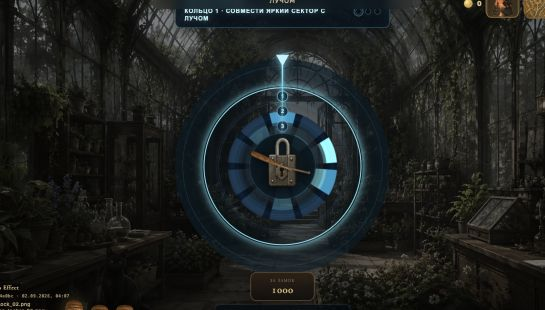
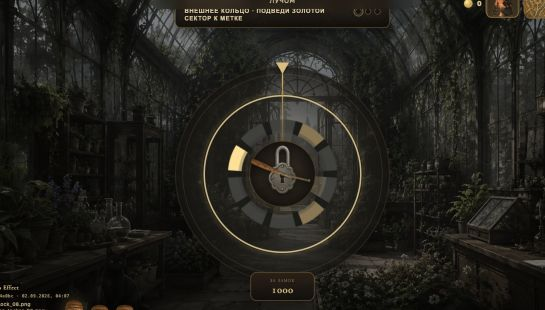
Restyle Mass Effect rings for Keynlock

diff --git a/css/modes-02-mass-effect.css b/css/modes-02-mass-effect.css
@@ -5,3 +5,15 @@
 .massCenter{position:absolute;left:50%;top:50%;width:132px;height:132px;transform:translate(-50%,-50%);border:1px solid rgba(100,219,240,.25);border-radius:50%;background:radial-gradient(circle,rgba(8,25,34,.82),rgba(3,10,15,.94));box-shadow:0 0 0 8px rgba(22,75,89,.18),inset 0 0 28px rgba(54,190,218,.12);color:#d9f9ff;cursor:pointer;z-index:6}.massCenter.ready{border-color:#72f4c8;box-shadow:0 0 0 8px rgba(49,185,143,.16),0 0 30px rgba(91,239,188,.44);animation:massReadyPulse 1.2s ease-in-out infinite alternate}.massCenterLock{position:absolute;left:50%;top:50%;width:136px;height:142px;transform:translate(-50%,-50%) scale(.58);transform-origin:center;z-index:2;pointer-events:none;filter:drop-shadow(0 7px 10px rgba(0,0,0,.5))}.massCenterShackle{position:absolute;left:50%;top:-28px;width:112px;height:112px;transform:translateX(-50%);background:var(--locker-image) center/contain no-repeat}.massCenterBody{position:absolute;left:50%;top:30px;width:136px;height:110px;transform:translateX(-50%);background:var(--lock-body-image) center/contain no-repeat}.massCenterPick{position:absolute;left:50%;top:50%;width:1px;height:1px;z-index:4;transform:rotate(-66deg);transform-origin:center}.massCenterPick::before{content:"";position:absolute;left:-11px;bottom:-38px;width:22px;height:158px;background:var(--pick-skin-image) center bottom/contain no-repeat;transform:scaleY(-1);filter:drop-shadow(0 2px 4px rgba(0,0,0,.48))}.massCenterTension{position:absolute;left:50%;top:50%;width:1px;height:1px;z-index:3}.massCenterTension::before{content:"";position:absolute;left:-5px;top:-12px;width:104px;height:26px;background:var(--tension-skin-image) center/contain no-repeat;transform-origin:6% 50%;transform:rotate(13.5deg);filter:drop-shadow(0 2px 4px rgba(0,0,0,.48))}.massCenterLock.opening .massCenterShackle{animation:keynlockShackleOpenFast 950ms cubic-bezier(.20,.76,.18,1) forwards!important}.massCenterLock.opened .massCenterShackle{transform:translateX(-50%) translateY(-40%) rotate(-14deg)}
 .massControlsHint{position:relative;z-index:8;transform:translateY(-58px);padding:8px 14px;border:1px solid rgba(70,141,158,.34);border-radius:9px;background:rgba(4,13,19,.72);color:#7698a2;font:10px/1 Arial,sans-serif;letter-spacing:.05em}.massControlsHint b{color:#bff6ff;font-size:12px}.massControlsHint span{display:inline-block;width:1px;height:12px;margin:0 11px;vertical-align:middle;background:#35535d}@keyframes massReadyPulse{to{filter:brightness(1.14)}}
 @media (max-height:720px),(max-width:760px){.massBoardViewport{width:520px;height:560px;gap:7px}.massBoard{transform:scale(.82)}.massReadout{width:430px}}
+
+/* Mass Effect borrows the ring idea, but it belongs to Keynlock's worn,
+   mechanical world. Selection is carried by the annulus itself: the ring
+   being rotated stays fully lit while both inactive rings recede. */
+.massReadout{border-color:rgba(166,128,70,.62);background:linear-gradient(180deg,rgba(48,38,27,.96),rgba(20,16,12,.94));box-shadow:inset 0 0 0 1px rgba(225,190,126,.08),inset 0 0 24px rgba(0,0,0,.34),0 10px 28px rgba(0,0,0,.45)}
+.massReadoutKicker{color:#8f7650}.massReadout strong{color:#e3cca1;text-shadow:0 1px 2px #000}.massProgress i{border-color:#776344;background:#211a12}.massProgress i.selected{outline-color:rgba(218,178,104,.46)}.massProgress i.ready{border-color:#d6b369;background:#b7863e;box-shadow:0 0 8px rgba(204,158,75,.42)}
+.massBoard{background:radial-gradient(circle at 50% 45%,rgba(73,65,53,.24) 0 27%,rgba(29,27,23,.82) 64%,rgba(12,11,9,.94) 100%);box-shadow:0 24px 55px rgba(0,0,0,.56),inset 0 0 0 2px rgba(137,111,71,.2),inset 0 0 55px rgba(0,0,0,.42)}.massBoard::before{border-color:rgba(164,132,79,.3)}.massBoard::after{border-color:#d7b574;background:#e1c385;box-shadow:0 0 8px rgba(215,181,116,.55)}
+.massTargetBeam{width:2px;background:linear-gradient(#f1d391 0,#c99a4d 18%,rgba(169,124,58,.42) 68%,transparent 100%);box-shadow:0 0 5px rgba(217,172,89,.55)}.massPointer{border-top-color:#dfbd78;filter:drop-shadow(0 2px 3px rgba(0,0,0,.75))}
+.massRing{opacity:.28;filter:grayscale(.28);transition:opacity .22s ease,filter .22s ease,transform .2s ease}.massRing.selected{opacity:1;filter:none}.massRing.ready:not(.selected){opacity:.52;filter:sepia(.22)}
+.massRing::before{opacity:.08;box-shadow:inset 0 0 0 1px rgba(145,122,84,.35)}.massRing.selected::before{opacity:1;box-shadow:inset 0 0 0 3px var(--mass-ring-color),0 0 10px rgba(197,158,91,.38)}.massRing.ready::before{box-shadow:inset 0 0 0 2px #b9914f,0 0 9px rgba(185,145,75,.32)}
+.massRingDisc{opacity:1;filter:brightness(.82) saturate(.72) drop-shadow(0 6px 12px rgba(0,0,0,.42))}.massRing.selected .massRingDisc{opacity:1;filter:brightness(1.18) saturate(.92) drop-shadow(0 4px 10px rgba(0,0,0,.45))}.massRing.ready .massRingDisc{opacity:.72;filter:sepia(.22) brightness(.94) saturate(.72)}
+.massCenter{border-color:rgba(171,137,82,.38);background:radial-gradient(circle,rgba(55,45,32,.86),rgba(17,14,11,.96));box-shadow:0 0 0 8px rgba(90,69,39,.18),inset 0 0 28px rgba(0,0,0,.36)}.massCenter.ready{border-color:#d1ad67;box-shadow:0 0 0 8px rgba(151,111,52,.16),0 0 22px rgba(205,158,77,.34)}

diff --git a/js/modes/mass-effect.js b/js/modes/mass-effect.js
@@ -3,10 +3,10 @@
   let meRings=[], meSelected=0, meInitialPositions=[];
   function massGradientForRing(ring){
     const step = 360 / ring.count;
-    const goodColor = '#74f1ff';
-    const decoyColor = '#317f9c';
-    const baseColor = '#172c3b';
-    const darkGap = '#07131c';
+    const goodColor = '#e4bd70';
+    const decoyColor = '#796340';
+    const baseColor = '#363633';
+    const darkGap = '#171714';
     const gap = Math.max(2.2, step * .11);
     const parts = [];
 
@@ -44,7 +44,7 @@
       btn.style.setProperty('--mass-marker-width', `${Math.max(14, Math.round(ring.thickness * .34))}px`);
       btn.style.setProperty('--mass-marker-height', `${Math.max(10, Math.round(ring.thickness * .24))}px`);
       btn.style.setProperty('--mass-marker-bottom', `${Math.max(8, Math.round(ring.thickness * .18))}px`);
-      btn.style.setProperty('--mass-ring-color', ['#7cecff','#5db9ff','#8d8cff'][i] || '#7cecff');
+      btn.style.setProperty('--mass-ring-color', ['#d8bd83','#b7a77f','#9f9277'][i] || '#d8bd83');
       const ringNames = ['Внешнее кольцо','Среднее кольцо','Внутреннее кольцо'];
       btn.setAttribute('aria-label', ringNames[i] || `Кольцо ${i+1}`);
 
@@ -54,11 +54,6 @@
       disc.style.transform = `rotate(${(ring.pos * 360 / ring.count).toFixed(2)}deg)`;
       disc.style.webkitMask = disc.style.mask = `radial-gradient(circle, transparent calc(50% - ${ring.thickness}px), #000 calc(50% - ${ring.thickness}px + 1px), #000 calc(50% - 1px), transparent 50%)`;
       btn.appendChild(disc);
-
-      const badge=document.createElement('span');
-      badge.className='massRingBadge';
-      badge.textContent=massRingSolved(ring)?'✓':String(i+1);
-      btn.appendChild(badge);
 
       btn.addEventListener('click', () => {
         if(solved) return;
@@ -74,7 +69,8 @@
     const active=meRings[meSelected];
     const status=document.querySelector('#massStatus');
     const progress=document.querySelector('#massProgress');
-    if(status) status.textContent=solved?'ДОСТУП РАЗРЕШЁН':ready?'ВСЕ КОНТУРЫ СОВПАЛИ':`КОЛЬЦО ${meSelected+1} · ${massRingSolved(active)?'СОВПАДЕНИЕ':'СОВМЕСТИ ЯРКИЙ СЕКТОР С ЛУЧОМ'}`;
+    const ringNames=['ВНЕШНЕЕ','СРЕДНЕЕ','ВНУТРЕННЕЕ'];
+    if(status) status.textContent=solved?'ЗАМОК ОТКРЫТ':ready?'ВСЕ КОЛЬЦА ВЫСТАВЛЕНЫ':`${ringNames[meSelected]} КОЛЬЦО · ${massRingSolved(active)?'ВЫСТАВЛЕНО':'ПОДВЕДИ ЗОЛОТОЙ СЕКТОР К МЕТКЕ'}`;
     if(progress) progress.innerHTML=meRings.map((item,i)=>`<i class="${massRingSolved(item)?'ready ':''}${i===meSelected?'selected':''}"></i>`).join('');
     $massCenter.classList.toggle('ready', ready && !solved);
     $massCenterText.textContent = solved ? 'ОТКРЫТО' : (ready ? 'ОТКРЫТЬ' : 'ПОВОРОТ');

diff --git a/index.html b/index.html
@@ -599,7 +599,6 @@
 <span id="massCenterText" hidden>ОТКРЫТЬ</span>
 </button>
 </div>
-<div class="massControlsHint"><b>← →</b> вращать кольцо <span></span><b>↑ ↓</b> выбрать кольцо</div>
 </div>
 
 </div>
